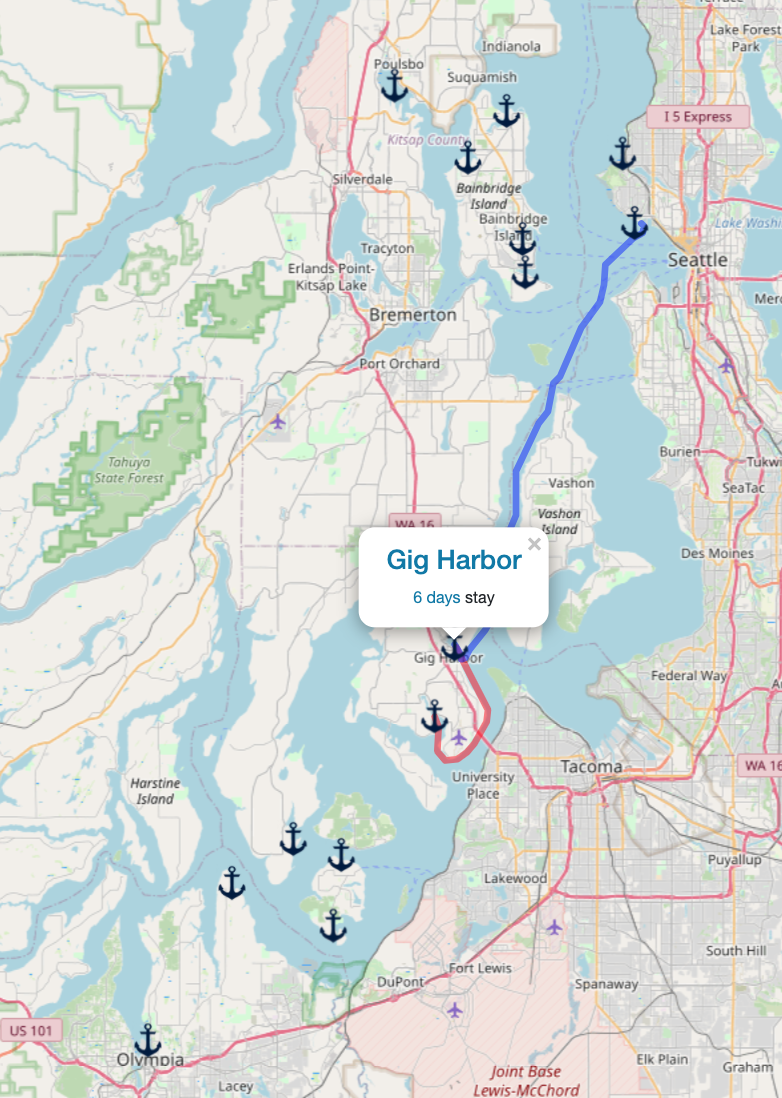
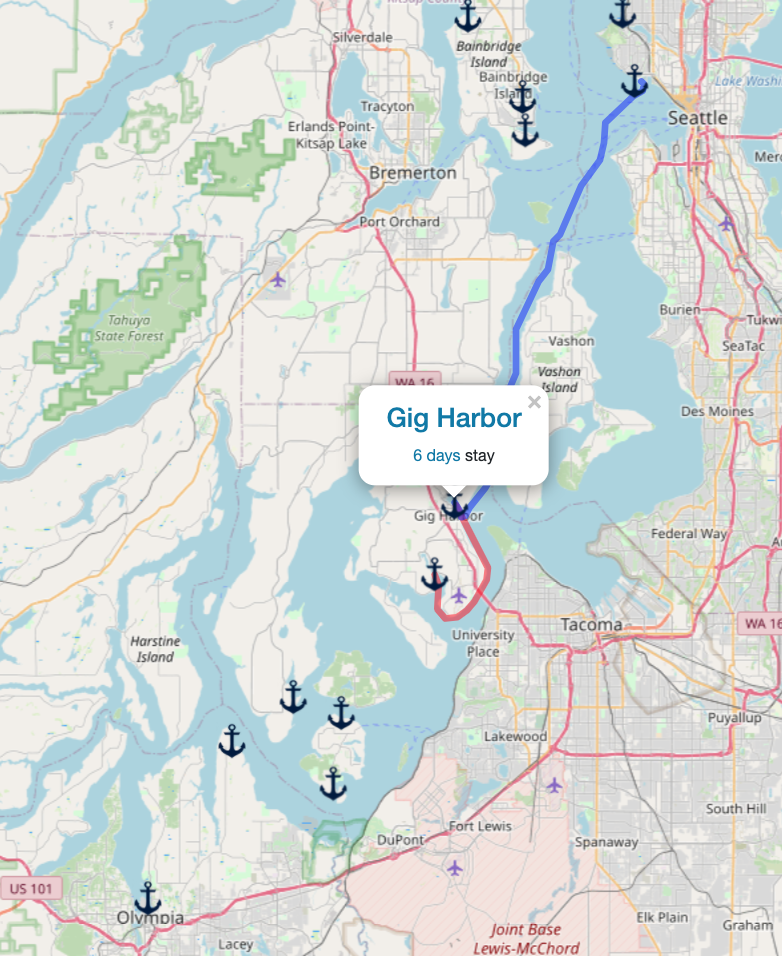
Re-align screenshots

diff --git a/README.md b/README.md
@@ -2,8 +2,8 @@
 Saillogger effortlessly logs your sails, automatically capturing your moorages, dockings and anchorages with no additional effort. Requires a free account on [saillogger.com](https://saillogger.com).
 
 <p float="left">
-  <img src="./screenshots/screenshot0.png" height="400">
-  <img src="./screenshots/screenshot1.png" height="400">
+  <img src="./screenshots/screenshot0.png" height="390">
+  <img src="./screenshots/screenshot1.png" height="390">
   <img src="./screenshots/screenshot2.png" width="640">
   <img src="./screenshots/screenshot3.png" width="320">
   <img src="./screenshots/screenshot4.png" width="320">
